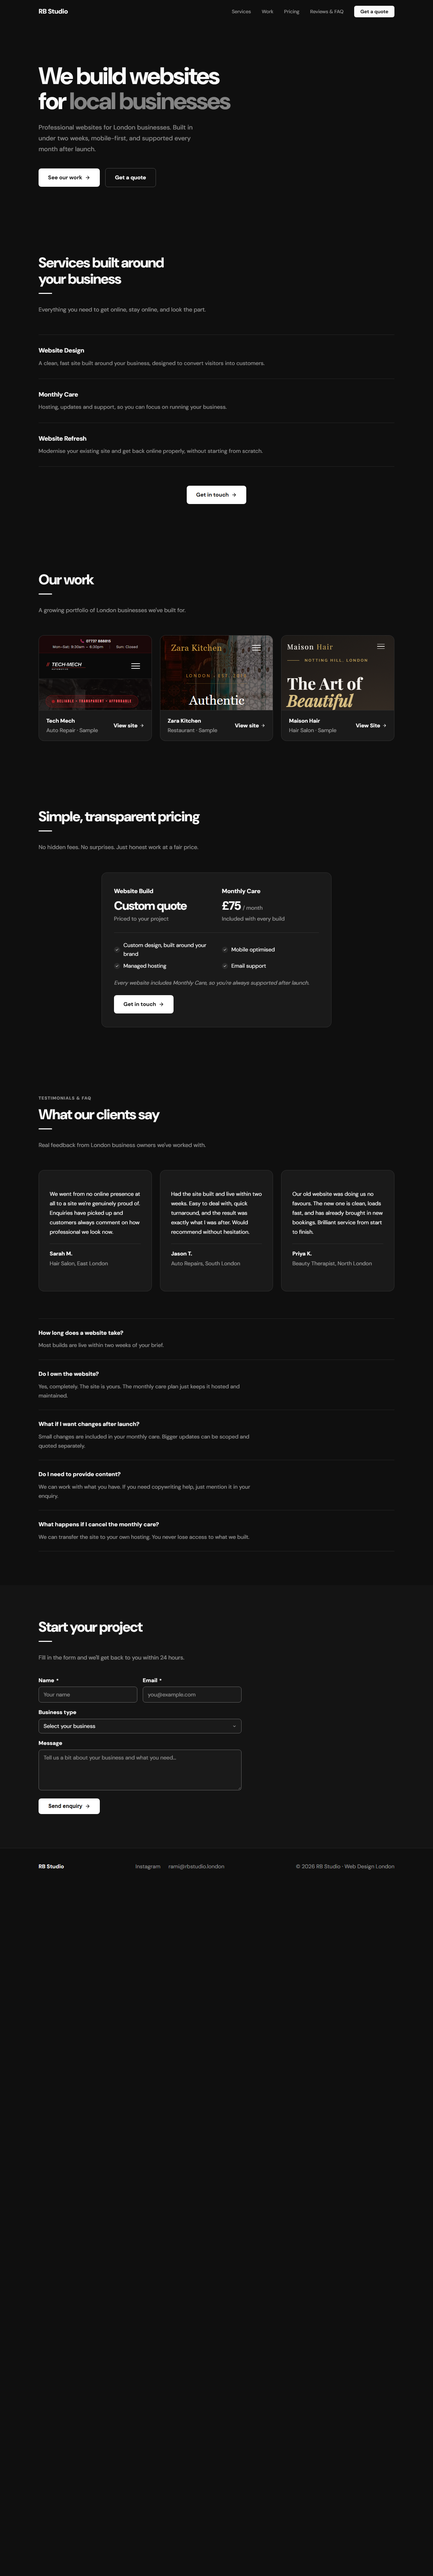
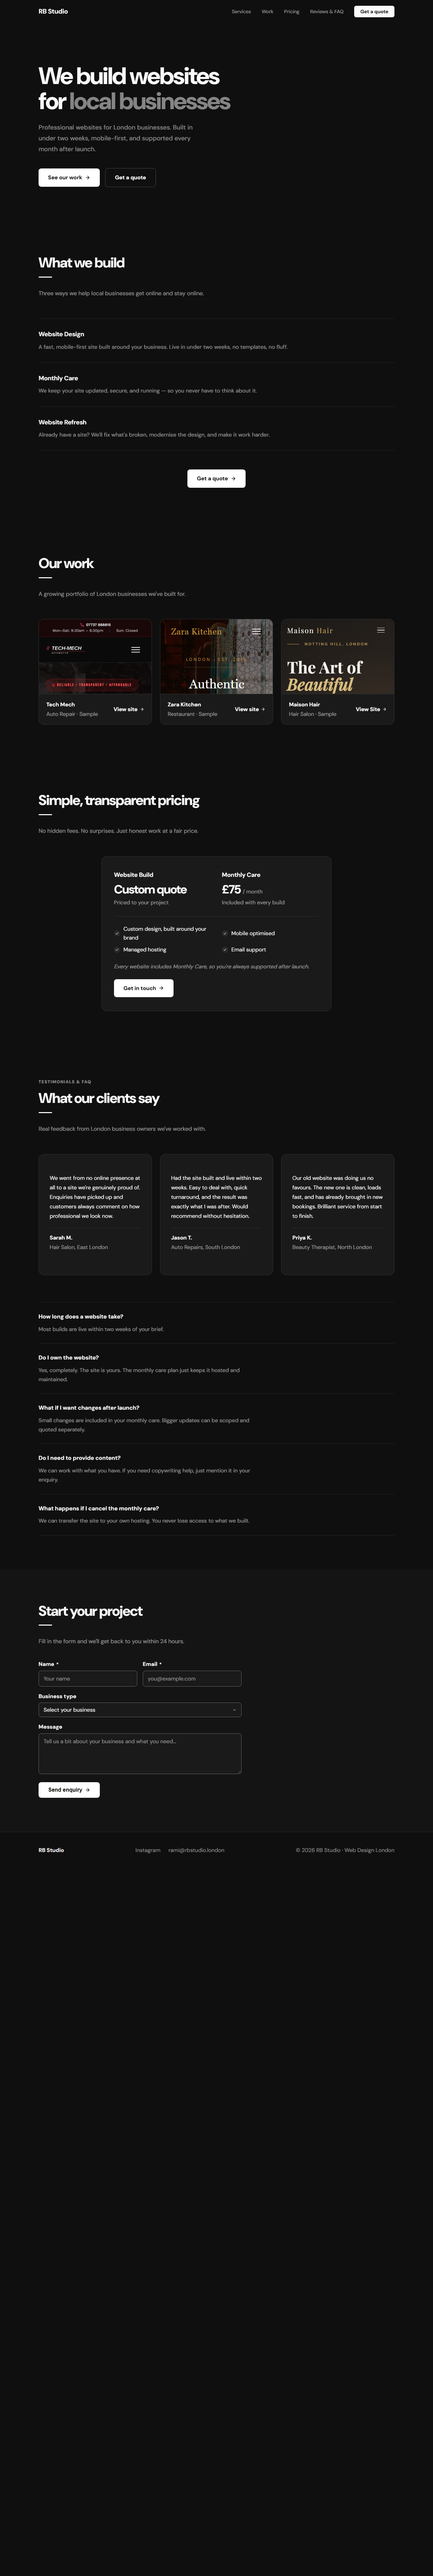
Update services section copy
Rename the section to What we build, update the subheading and the three
service descriptions, and relabel the CTA as Get a quote. Refresh renders.

diff --git a/index.html b/index.html
@@ -1177,37 +1177,37 @@
   <section id="services">
     <div class="container">
       <div class="services-header fade-in">
-        <h2 class="section-title">Services built around<br />your business</h2>
+        <h2 class="section-title">What we build</h2>
         <div class="divider"></div>
-        <p class="section-sub">Everything you need to get online, stay online, and look the part.</p>
+        <p class="section-sub">Three ways we help local businesses get online and stay online.</p>
       </div>
 
       <div class="services-list">
         <div class="service-row fade-in fade-in-delay-1">
           <div>
             <h3 class="service-name">Website Design</h3>
-            <p class="service-desc">A clean, fast site built around your business, designed to convert visitors into customers.</p>
+            <p class="service-desc">A fast, mobile-first site built around your business. Live in under two weeks, no templates, no fluff.</p>
           </div>
         </div>
 
         <div class="service-row fade-in fade-in-delay-2">
           <div>
             <h3 class="service-name">Monthly Care</h3>
-            <p class="service-desc">Hosting, updates and support, so you can focus on running your business.</p>
+            <p class="service-desc">We keep your site updated, secure, and running — so you never have to think about it.</p>
           </div>
         </div>
 
         <div class="service-row fade-in fade-in-delay-3">
           <div>
             <h3 class="service-name">Website Refresh</h3>
-            <p class="service-desc">Modernise your existing site and get back online properly, without starting from scratch.</p>
+            <p class="service-desc">Already have a site? We'll fix what's broken, modernise the design, and make it work harder.</p>
           </div>
         </div>
       </div>
 
       <div class="services-cta">
         <a href="#contact" class="btn btn-primary">
-          Get in touch
+          Get a quote
           <svg width="16" height="16" viewBox="0 0 24 24" fill="none" stroke="currentColor" stroke-width="2.2" stroke-linecap="round" stroke-linejoin="round"><path d="M5 12h14M12 5l7 7-7 7"/></svg>
         </a>
       </div>
